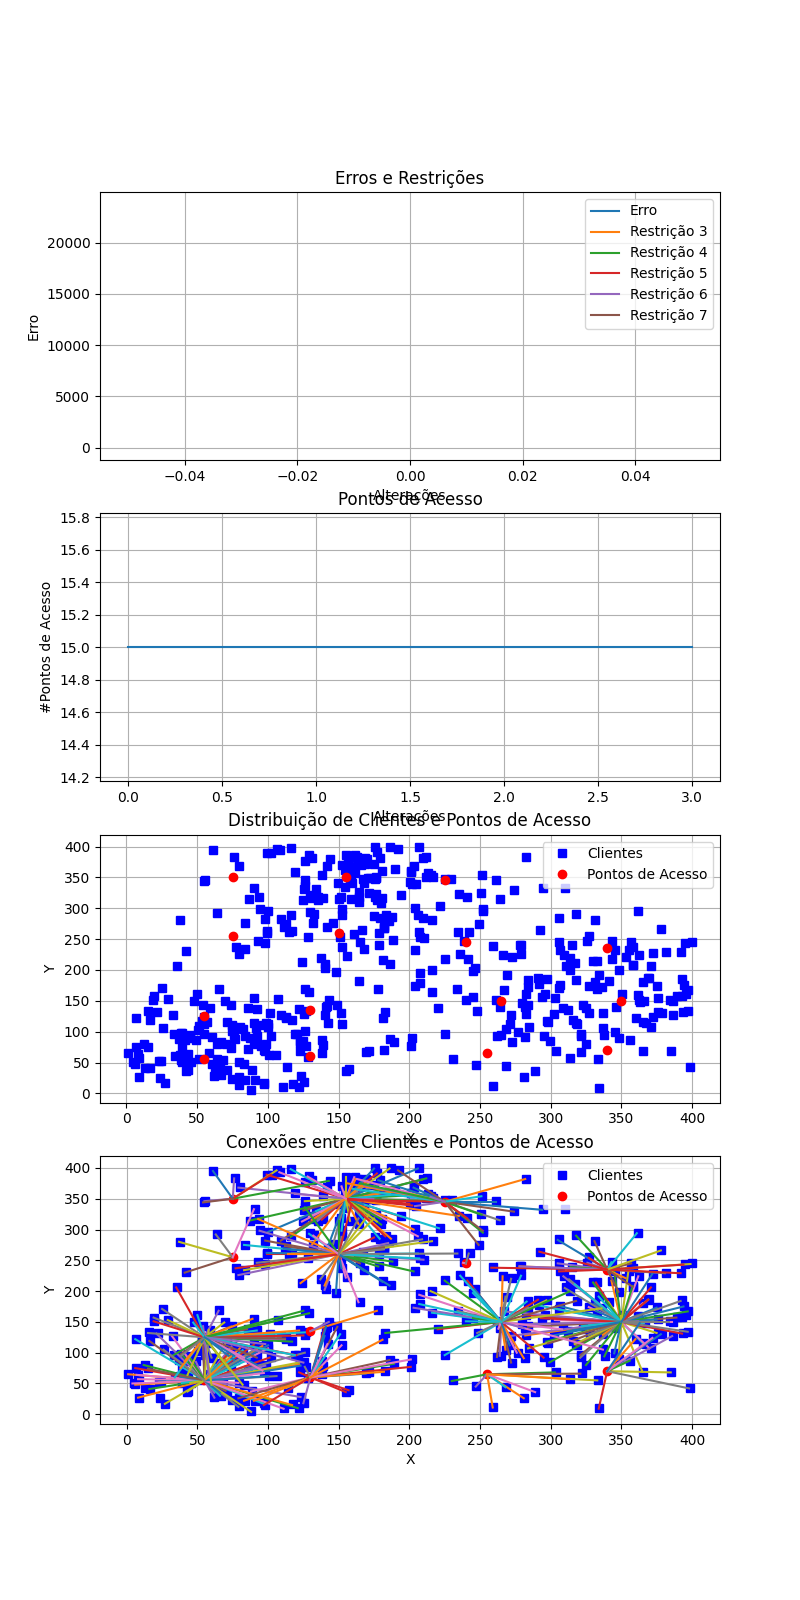
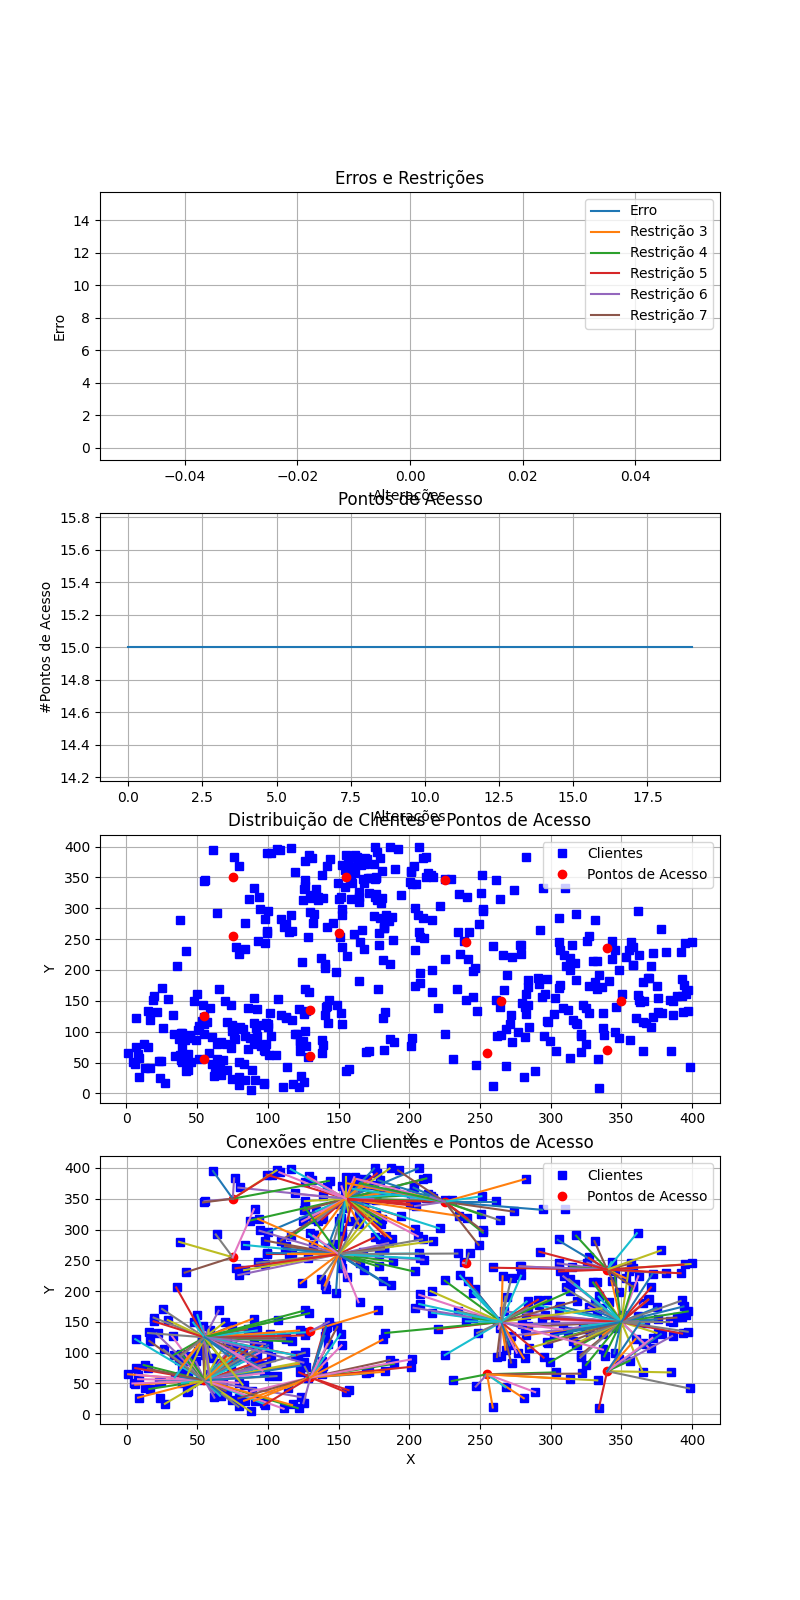
estruturas de vizinhança considerando 495x30

Changed region(s): [[0.0312, 0.125, 0.125, 0.25], [0.25, 0.4688, 0.2812, 0.5]]

diff --git a/1 entrega/mop_solution/estrutura_vizinhanca.py b/1 entrega/mop_solution/estrutura_vizinhanca.py
@@ -1,7 +1,7 @@
 import numpy as np
 import os,sys,math, copy, pickle
 from scipy.spatial import distance
-from random import seed,random,randint
+import random
 import pandas as pd
 import matplotlib.pyplot as plt
 
@@ -120,6 +120,16 @@ def calcular_uso_PA(x, PA_index):
   clientes_conectados = np.where(x['cliente_por_PA'][:, PA_index] == 1)[0]
   uso_total = np.sum(x['cons_clientes'][clientes_conectados])
   return uso_total
+
+def encontrar_pas_na_regiao(x, regiao_x, regiao_y):
+  """Encontra os índices dos PAs dentro de uma região do grid."""
+  pas_na_regiao = []
+  for PA_index in range(x['n_max_possivel_PAs']):
+    pa_x = x['possiveis_coord_PA'][PA_index, 0]
+    pa_y = x['possiveis_coord_PA'][PA_index, 1]
+    if regiao_x[0] <= pa_x < regiao_x[1] and regiao_y[0] <= pa_y < regiao_y[1]:
+      pas_na_regiao.append(PA_index)
+  return pas_na_regiao
 
 def k11(x):
   # Desativa o PA com menor uso e ativa um aleatório, redistribuindo clientes. 
@@ -304,5 +314,60 @@ def k13(x):
     else:
       # Não encontrou nenhum PA disponível, cliente permanece desconectado
       pass  # Não precisa fazer nada aqui, pois o cliente já foi desconectado
+
+  return x
+
+def k14(x):
+
+  # Seleciona uma região aleatória do grid, encontra o PA com 
+  # menos clientes conectados nessa região e tenta redistribuir 
+  # esses clientes para outros PAs habilitados em qualquer 
+  # lugar do grid.
+
+
+  # Define uma região aleatória de 50x50 com x e y sempre positivos
+  regiao_x = (random.randint(0, max(0, x['sizex'][1] - 50)), random.randint(0, max(0, x['sizex'][1] - 50)) + 50)
+  regiao_y = (random.randint(0, max(0, x['sizey'][1] - 50)), random.randint(0, max(0, x['sizey'][1] - 50)) + 50)
+
+  # Encontra os PAs ativos dentro da região
+  pas_na_regiao = encontrar_pas_na_regiao(x, regiao_x, regiao_y)
+  pas_ativos_na_regiao = np.intersect1d(pas_na_regiao, np.where(x['uso_PAs'] == 1)[0])
+
+  # Se não houver PAs ativos na região, retorna
+  if len(pas_ativos_na_regiao) == 0:
+    #print("Nenhum PA ativo encontrado na região selecionada.")
+    return x
+
+  # Encontra o PA com menos clientes conectados na região
+  num_clientes_por_pa = np.sum(x['cliente_por_PA'][:, pas_ativos_na_regiao], axis=0)
+  PA_menor_uso_na_regiao = pas_ativos_na_regiao[np.argmin(num_clientes_por_pa)]
+
+  # Desativa o PA com menor uso na região
+  x['uso_PAs'][PA_menor_uso_na_regiao] = 0
+
+  # Tenta redistribuir os clientes do PA desabilitado
+  clientes_para_redistribuir = np.where(x['cliente_por_PA'][:, PA_menor_uso_na_regiao] == 1)[0]
+  for cliente_index in clientes_para_redistribuir:
+    cliente_consumo = x['cons_clientes'][cliente_index]
+
+    # Tenta conectar a outro PA disponível em qualquer região
+    PAs_disponiveis = np.where(x['uso_PAs'] == 1)[0]
+    random.shuffle(PAs_disponiveis)
+
+    for PA_candidato in PAs_disponiveis:
+      if calcular_uso_PA(x, PA_candidato) + cliente_consumo <= x['capacidade_PA']:
+        distancia_candidato = calcular_distancia(
+            x['coord_clientes'][cliente_index, 0],
+            x['coord_clientes'][cliente_index, 1],
+            x['possiveis_coord_PA'][PA_candidato, 0],
+            x['possiveis_coord_PA'][PA_candidato, 1],
+        )
+        if distancia_candidato <= x['limite_sinal_PA']:
+          # Conecta ao novo PA
+          x['cliente_por_PA'][cliente_index, PA_candidato] = 1
+          break
+    else:
+      # Cliente permanece desconectado se nenhum PA estiver disponível
+      pass
 
   return x

diff --git a/1 entrega/mop_solution/basicvns.py b/1 entrega/mop_solution/basicvns.py
@@ -1,7 +1,8 @@
 import numpy as np
+import os
 import sys, copy
 from random import seed
-from estrutura_vizinhanca import k1,k2,k3,k4
+from estrutura_vizinhanca import k1,k2,k3,k4,k11,k12,k13,k14
 from restricoes import r3,r4,r5,r6,r7,sum_restr
 from graph_maker import plot_infos
 from solution import sol_zero
@@ -160,24 +161,25 @@ if __name__ == "__main__":
     dist_cliente_PA = np.zeros((num_clientes, n_max_PAs)) # vetor de distacias
     cliente_por_PA = np.zeros((num_clientes, n_max_PAs)) #Matriz de numero de clientes por numero de PAs indica se a PA é utilizada pelo cliente
     
+    if not os.path.exists('dist_matrix.npy'):
     # Inicializar a matriz tridimensional
-    dim_x_matriz = int(sizex[1] // grid_PAs[0])
-    dim_y_matriz = int(sizey[1] // grid_PAs[1])
-    dist_matrix = np.zeros((dim_x_matriz, dim_y_matriz, num_clientes))
+        dim_x_matriz = int(sizex[1] // grid_PAs[0])
+        dim_y_matriz = int(sizey[1] // grid_PAs[1])
+        dist_matrix = np.zeros((dim_x_matriz, dim_y_matriz, num_clientes))
 
-    # Calcular as coordenadas centrais de cada célula no grid
-    
-    grid_coords = np.array([[(i * grid_PAs[0], j * grid_PAs[1])
-                            for j in range(dim_y_matriz+1)] for i in range(dim_x_matriz+1)])
+        # Calcular as coordenadas centrais de cada célula no grid
+        
+        grid_coords = np.array([[(i * grid_PAs[0], j * grid_PAs[1])
+                                for j in range(dim_y_matriz+1)] for i in range(dim_x_matriz+1)])
 
-    # Calcular as distâncias euclidianas
-    for i in range(dim_x_matriz):
-        for j in range(dim_y_matriz):
-            for k in range(num_clientes):
-                dist_matrix[i][j][k] = np.linalg.norm(coord_clientes[k] - grid_coords[i][j])
+        # Calcular as distâncias euclidianas
+        for i in range(dim_x_matriz):
+            for j in range(dim_y_matriz):
+                for k in range(num_clientes):
+                    dist_matrix[i][j][k] = np.linalg.norm(coord_clientes[k] - grid_coords[i][j])
 
-    # Escrever a matriz em um arquivo
-    np.save('dist_matrix.npy', dist_matrix)
+        # Escrever a matriz em um arquivo
+        np.save('dist_matrix.npy', dist_matrix)
 
     x = {
         'dist_cliente_PA':dist_cliente_PA,
@@ -215,6 +217,11 @@ if __name__ == "__main__":
     print('(Para a restricao acima, qualquer valor maior que zero se refere a distancia maxima entre usuario e area de acao do PA)')
     print('\n\n')
     
+    ultimas_colunas = sol['cliente_por_PA'][:, -15:]
+    np.set_printoptions(edgeitems=500, linewidth=1000)
+    print(sol['cliente_por_PA'])
+    a = np.any(ultimas_colunas != 0)
+    print(f"tem diferente de zero: {a}")
     #plot solution
     plot_infos(sol, log, dir_='output/vns/info/')
     

diff --git a/1 entrega/mop_solution/solution.py b/1 entrega/mop_solution/solution.py
@@ -38,7 +38,7 @@ def sol_zero(dados):
     # Ordenar quadrados por população (do mais populoso para o menos populoso)
     quadrados_populosos = [(x, y, grade_quadrados[x, y]) for x in range(num_quadrados_x) for y in range(num_quadrados_y)]
     quadrados_populosos.sort(key=lambda x: x[2], reverse=True)
-    posicao_PAs = [];
+    posicao_PAs = []
 
     # Calcular centroides e alocar PAs
     for x, y, _ in quadrados_populosos:
@@ -66,6 +66,7 @@ def sol_zero(dados):
                         consumo_atual_pa += dados['cons_clientes'][i]
             cliente_por_PA = dados["cliente_por_PA"]
             dados['uso_PAs'] = uso_PAs
+
 
         cliente_por_PA = dados["cliente_por_PA"]
         coord_PAs =  np.array(posicao_PAs)
